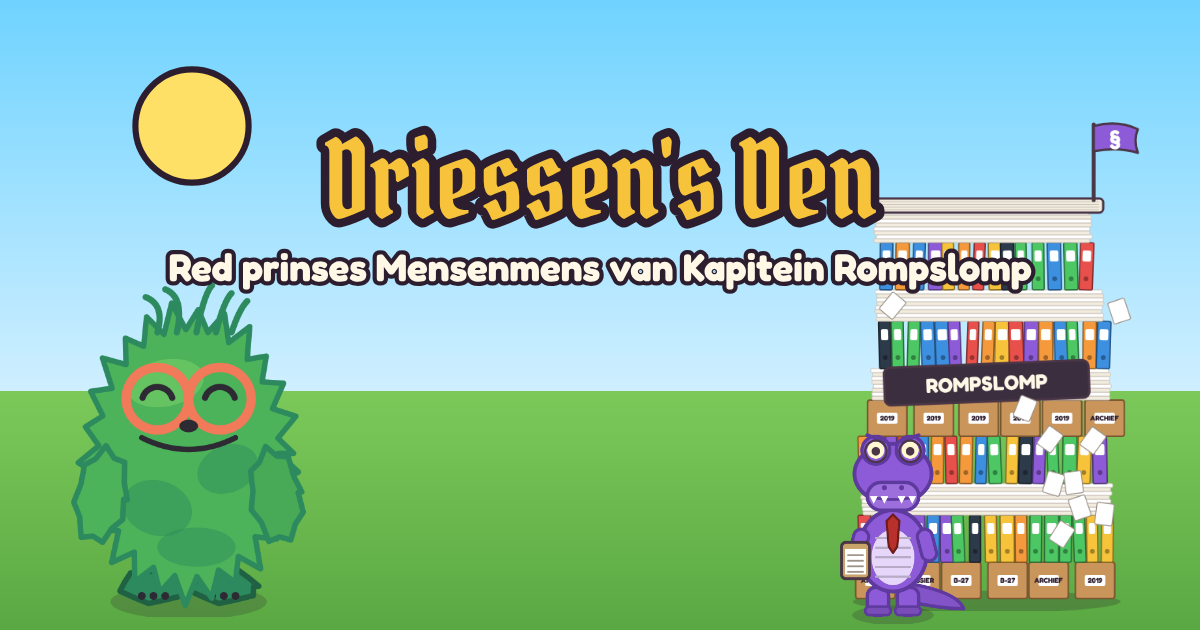
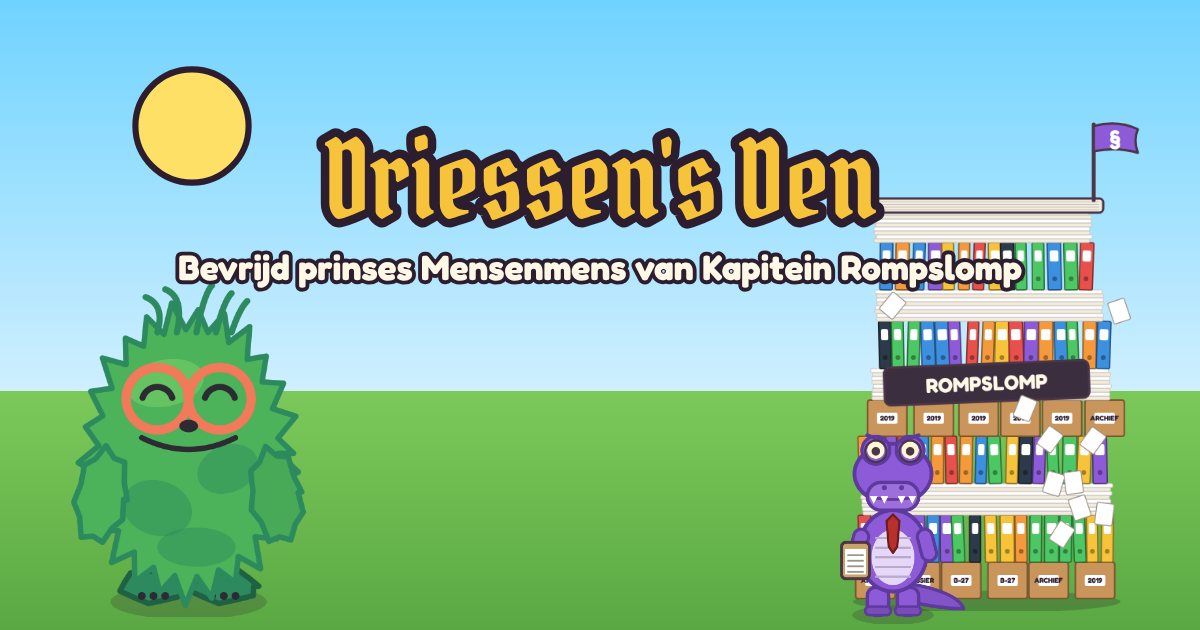
'Red prinses Mensenmens' wordt 'Bevrijd prinses Mensenmens' (menu, beschrijving, manifest, deelafbeelding)
Claude-Session: https://claude.ai/code/session_019vdidpFjxgLTkGpCQmqHD1

Changed region(s): [[0.1233, 0.3921, 0.8633, 0.4825]]

diff --git a/index.html b/index.html
@@ -10,13 +10,13 @@
     <meta name="apple-mobile-web-app-title" content="Driessen's Den" />
     <link rel="manifest" href="/manifest.webmanifest" />
     <link rel="apple-touch-icon" href="/icons/apple-touch-icon.png" />
-    <meta name="description" content="Driessen's Den — red prinses Mensenmens uit de klauwen van Kapitein Rompslomp!" />
+    <meta name="description" content="Driessen's Den — bevrijd prinses Mensenmens uit de klauwen van Kapitein Rompslomp!" />
     <link rel="icon" type="image/png" href="/icons/icon-192.png" />
     <title>Driessen's Den</title>
     <!-- voorbeeld bij het delen van de link (WhatsApp, Teams, LinkedIn, …) -->
     <meta property="og:type" content="website" />
     <meta property="og:title" content="Driessen's Den" />
-    <meta property="og:description" content="Red prinses Mensenmens uit de klauwen van Kapitein Rompslomp, samen met Buddy en de bedrijven van Driessen Groep." />
+    <meta property="og:description" content="Bevrijd prinses Mensenmens uit de klauwen van Kapitein Rompslomp, samen met Buddy en de bedrijven van Driessen Groep." />
     <meta property="og:url" content="https://advanz80.github.io/OnboardingDG/" />
     <meta property="og:image" content="https://advanz80.github.io/OnboardingDG/og-image.png" />
     <meta property="og:image:width" content="1200" />
